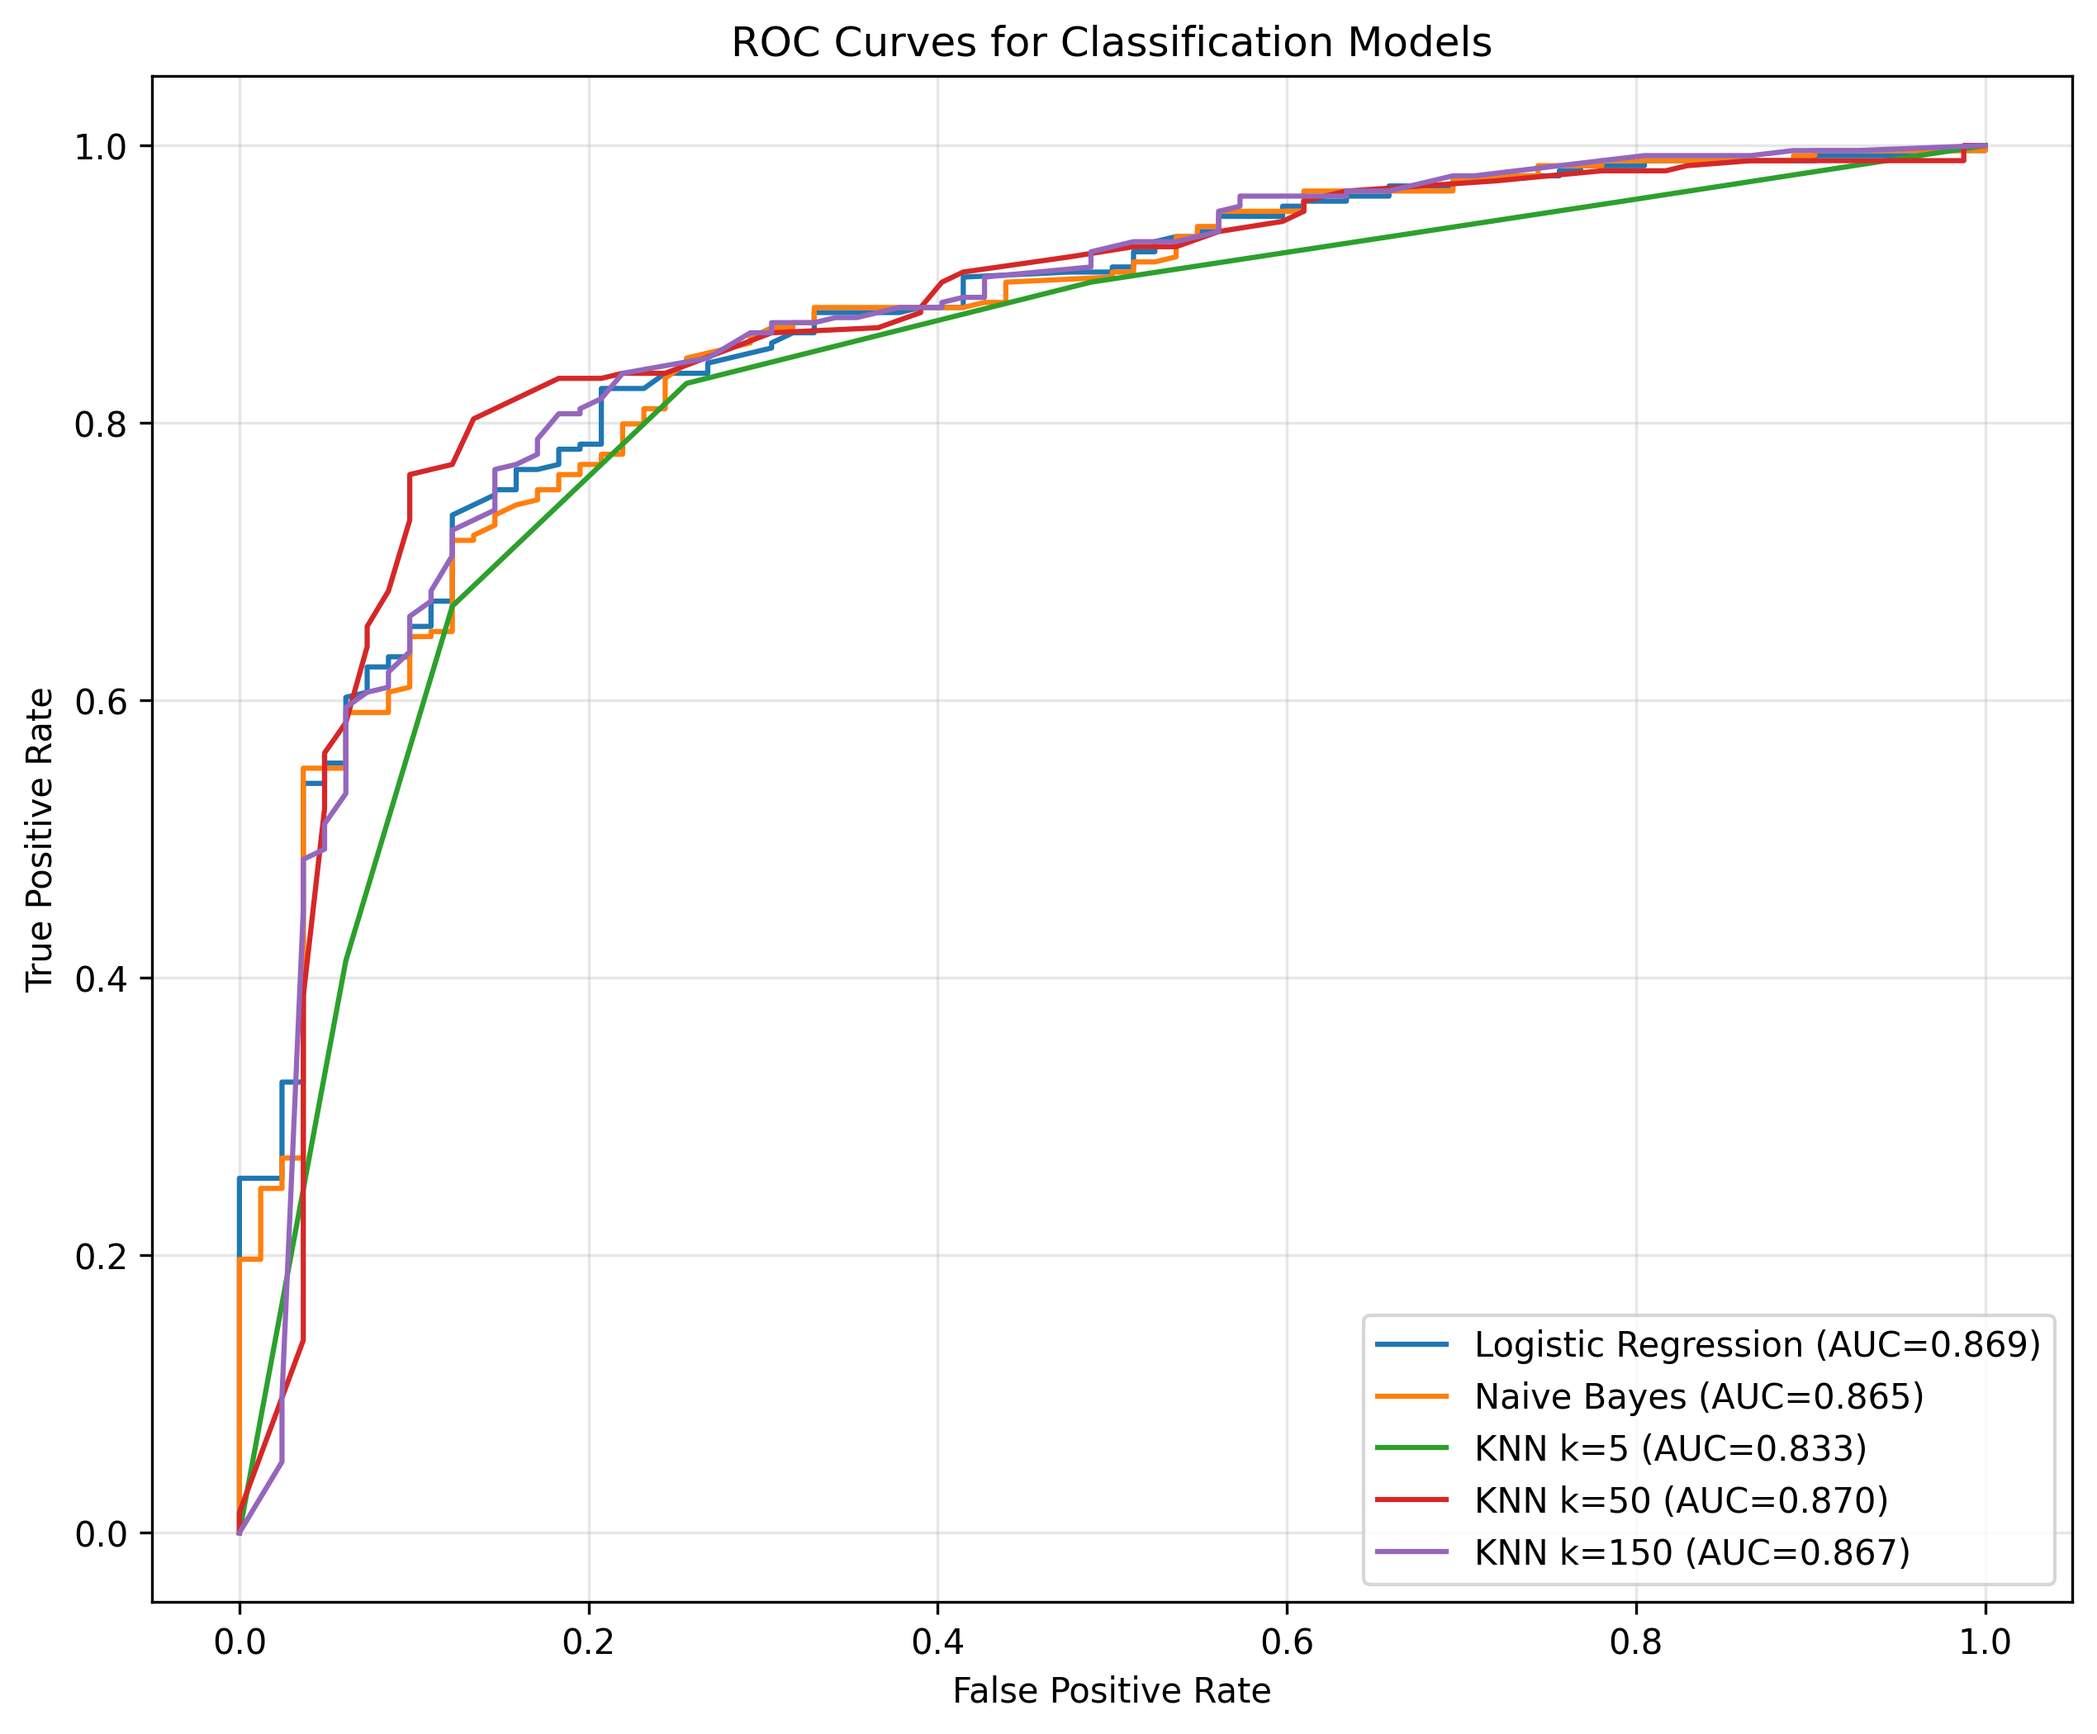
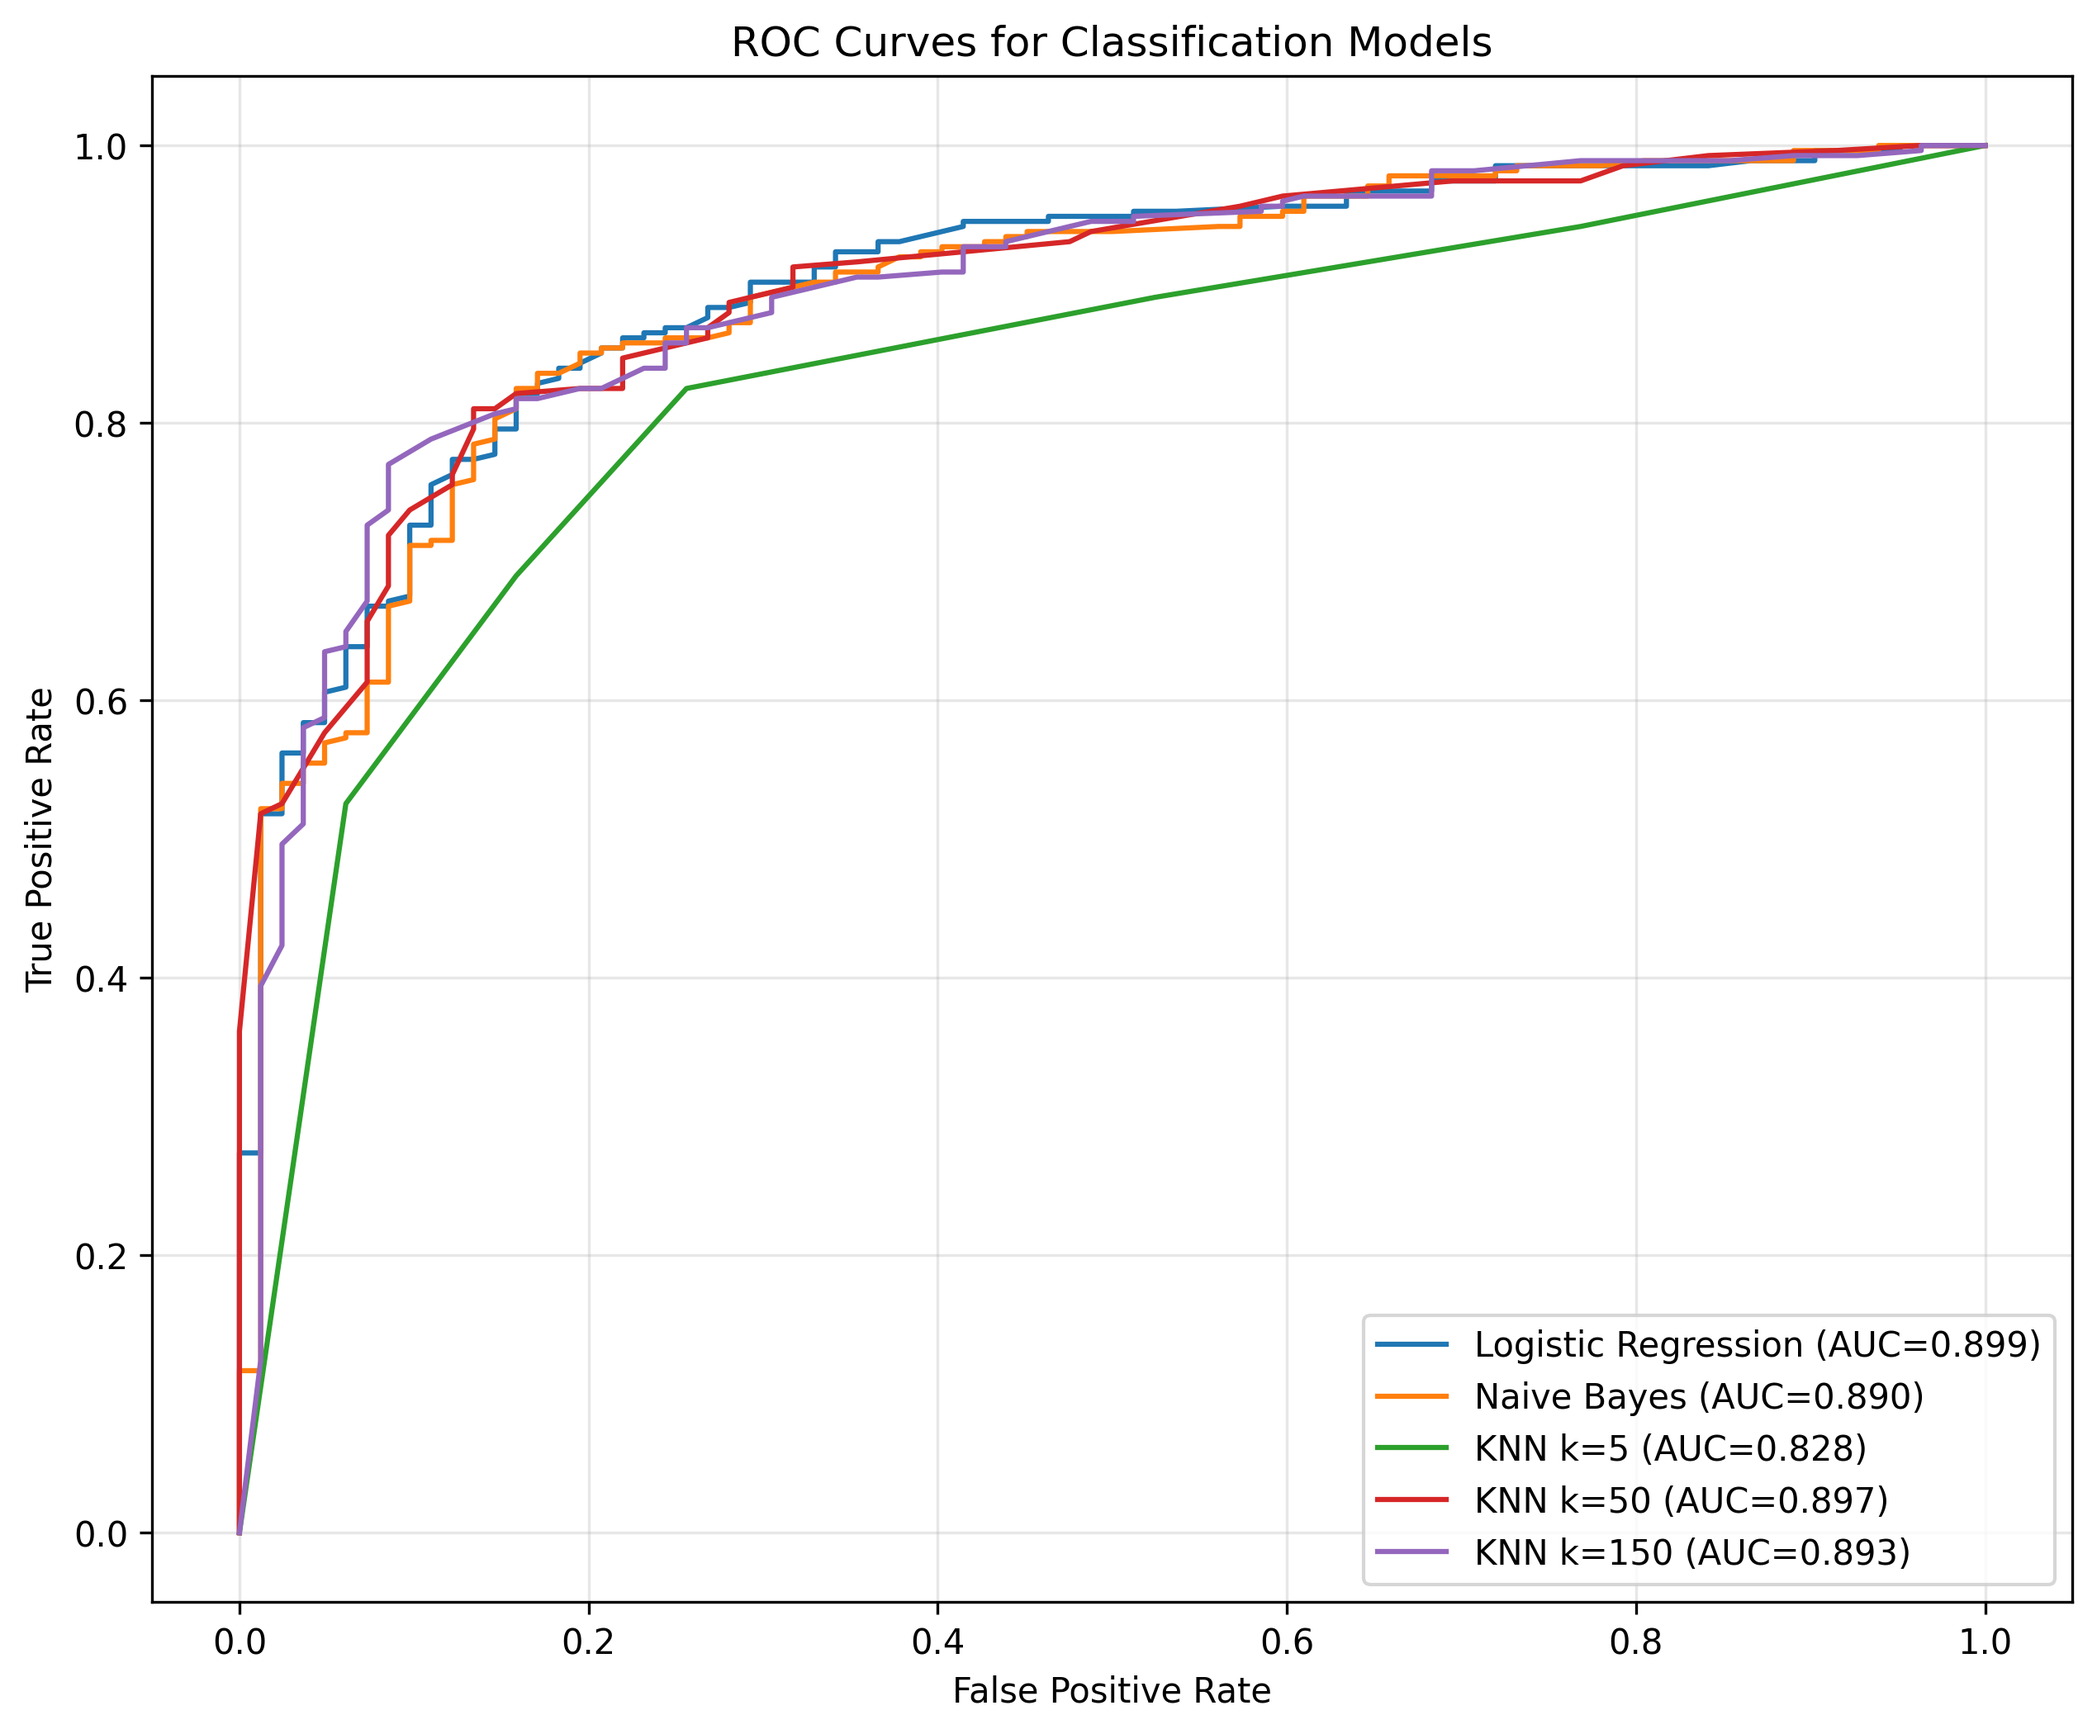
update 3

Changed region(s): [[0.0933, 0.0619, 0.9334, 0.8976], [0.8712, 0.8357, 0.9023, 0.8976]]

diff --git a/HW3/Q2/Q2.py b/HW3/Q2/Q2.py
@@ -1,5 +1,5 @@
+import numpy as np
 from ISLP import load_data
-import ISLP
 import pandas as pd
 from ISLP.models import summarize
 import statsmodels.api as sm
@@ -7,6 +7,7 @@ from sklearn.metrics import confusion_matrix
 from sklearn.naive_bayes import GaussianNB
 from sklearn.neighbors import KNeighborsClassifier
 from sklearn.preprocessing import StandardScaler
+from typing import cast
 
 training_set = pd.read_csv('training_set.csv')
 testing_set = pd.read_csv('testing_set.csv')
@@ -23,7 +24,7 @@ def num_summary(x: pd.Series) -> str:
 def PartA():
     loyalty = training_set['LoyalCH']
     special = training_set['SpecialCH']
-    price_diff = training_set['ListPriceDiff']
+    price_diff = training_set['PriceDiff']
     
     print("LoyalCH Summary:")
     print(num_summary(loyalty))
@@ -31,16 +32,16 @@ def PartA():
     print("SpecialCH Summary:")
     print(num_summary(special))
 
-    print("ListPriceDiff Summary:")
+    print("PriceDiff Summary:")
     print(num_summary(price_diff))
 
 def PartB():
-    correlation_matrix = training_set[['LoyalCH', 'SpecialCH', 'ListPriceDiff']].corr()
+    correlation_matrix = training_set[['LoyalCH', 'SpecialCH', 'PriceDiff']].corr()
     print("Correlation Matrix:")
     print(correlation_matrix)
-    
+
 def PartC():
-    X_train = training_set[['LoyalCH', 'SpecialCH', 'ListPriceDiff']]
+    X_train = training_set[['LoyalCH', 'SpecialCH', 'PriceDiff']]
     X_train = sm.add_constant(X_train)
     y_train = (training_set['Purchase'] == 'CH').astype(int)
 
@@ -50,14 +51,11 @@ def PartC():
     print(summary)
     
 def PartD():
-    X_train = training_set[['LoyalCH', 'SpecialCH', 'ListPriceDiff']]
+    X_train = training_set[['LoyalCH', 'SpecialCH', 'PriceDiff']]
     X_train = sm.add_constant(X_train)
     y_train = (training_set['Purchase'] == 'CH').astype(int)
 
     model = sm.GLM(y_train, X_train, family=sm.families.Binomial()).fit()
-    summary = model.summary()
-    print("GLM Summary:")
-    print(summary)
     
     # predict probabilities on Train and classify with threshold 0.5
     probs = model.predict(X_train)
@@ -78,18 +76,15 @@ def PartD():
     print(f"Percent false negatives (of all observations): {percent_fn:.2f}%")
 
 def PartE():
-    X_train = training_set[['LoyalCH', 'ListPriceDiff']]
+    X_train = training_set[['LoyalCH', 'PriceDiff']]
     X_train = sm.add_constant(X_train)
     y_train = (training_set['Purchase'] == 'CH').astype(int)
-    
-    x_testing = testing_set[['LoyalCH', 'ListPriceDiff']]
+
+    x_testing = testing_set[['LoyalCH', 'PriceDiff']]
     x_testing = sm.add_constant(x_testing)
     y_test = (testing_set['Purchase'] == 'CH').astype(int)
 
     model = sm.GLM(y_train, X_train, family=sm.families.Binomial()).fit()
-    summary = model.summary()
-    print("GLM Summary:")
-    print(summary)
     
     # predict probabilities on Train and classify with threshold 0.5
     probs = model.predict(x_testing)
@@ -110,10 +105,10 @@ def PartE():
     print(f"Percent false negatives (of all observations): {percent_fn:.2f}%")
     
 def PartF():
-    X_train = training_set[['LoyalCH', 'ListPriceDiff']]
+    X_train = training_set[['LoyalCH', 'PriceDiff']]
     y_train = (training_set['Purchase'] == 'CH').astype(int)
 
-    X_test = testing_set[['LoyalCH', 'ListPriceDiff']]
+    X_test = testing_set[['LoyalCH', 'PriceDiff']]
     y_test = (testing_set['Purchase'] == 'CH').astype(int)
 
     model = GaussianNB()
@@ -134,10 +129,10 @@ def PartF():
     print(f"False Negative: {percent_fn:.2f}%")
 
 def PartG():
-    X_train = training_set[['LoyalCH', 'ListPriceDiff']].copy()
+    X_train = training_set[['LoyalCH', 'PriceDiff']].copy()
     y_train = (training_set['Purchase'] == 'CH').astype(int)
 
-    X_test = testing_set[['LoyalCH', 'ListPriceDiff']].copy()
+    X_test = testing_set[['LoyalCH', 'PriceDiff']].copy()
     y_test = (testing_set['Purchase'] == 'CH').astype(int)
 
     scaler = StandardScaler().fit(X_train)
@@ -209,9 +204,9 @@ def PartH():
     from sklearn.metrics import roc_curve, roc_auc_score
     
     # Features for all models
-    X_train = training_set[['LoyalCH', 'ListPriceDiff']]
+    X_train = training_set[['LoyalCH', 'PriceDiff']]
     y_train = (training_set['Purchase'] == 'CH').astype(int)
-    X_test = testing_set[['LoyalCH', 'ListPriceDiff']]
+    X_test = testing_set[['LoyalCH', 'PriceDiff']]
     y_test = (testing_set['Purchase'] == 'CH').astype(int)
     
     # Scaled features for KNN
